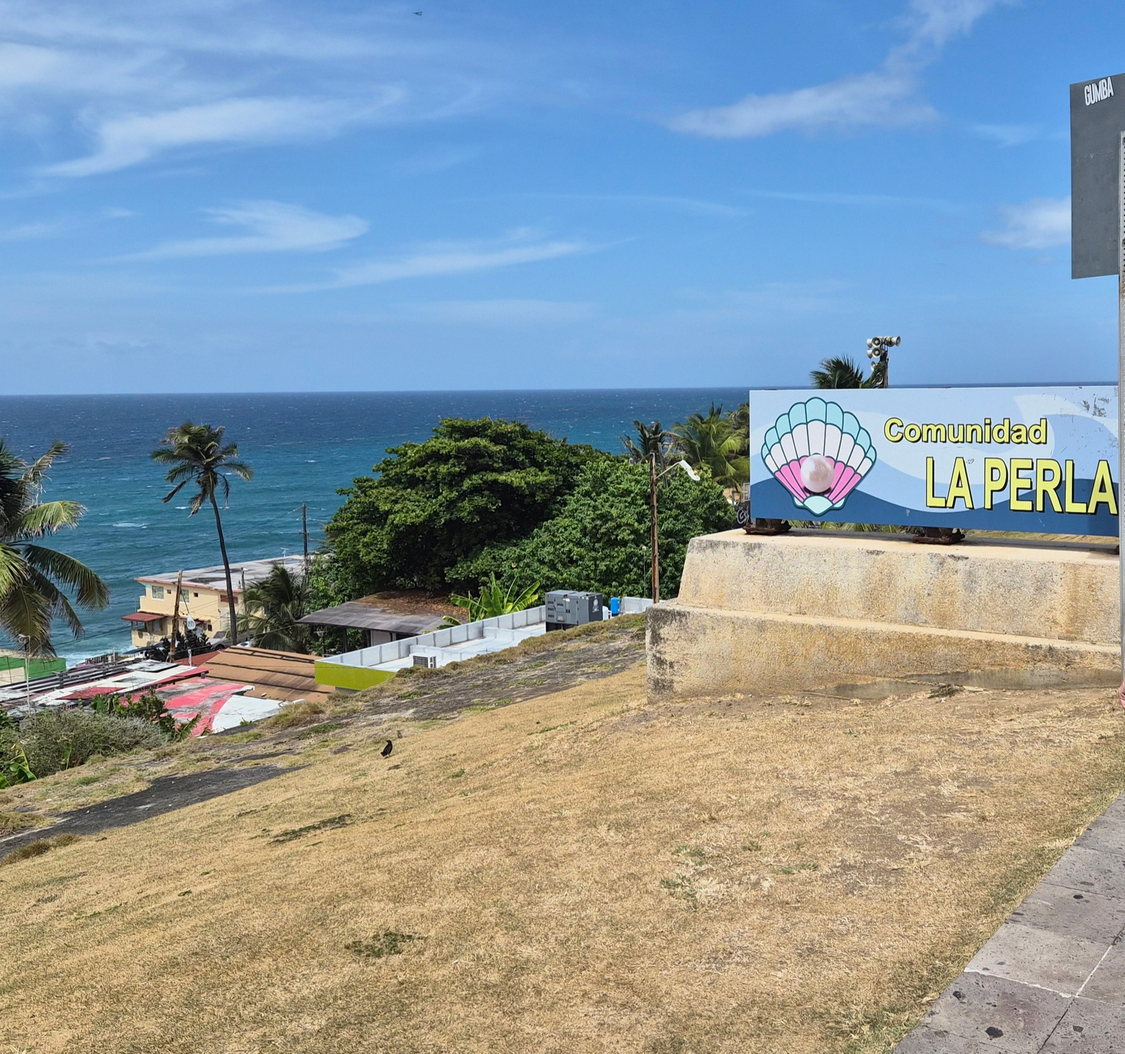
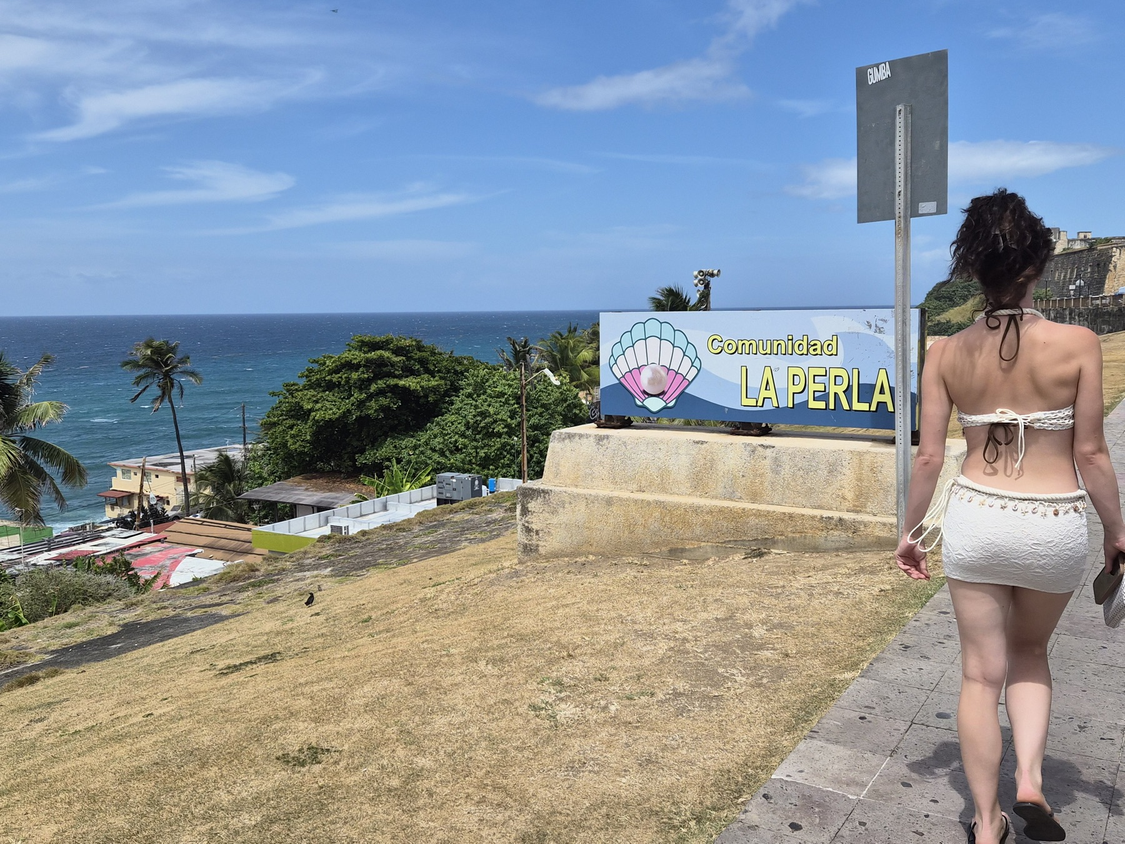
Más fotos en los carruseles de las tarjetas
- La del letrero de La Perla vuelve a ser la foto completa.
- Coamo de noche: se añade la entrada a los baños termales.
- Ponce pasa de cuatro a nueve fotos: la Fuente de los Leones,
  un edificio neoclásico del casco, el mural de las casitas,
  la sala de arte y el letrero de Ponce bajo la Cruceta.
- La Perla suma un callejón del Viejo San Juan.

Todas salen de Fotos Recorridos, a 1800px de ancho, con su texto
alternativo en el HTML.

diff --git a/index.html b/index.html
@@ -197,6 +197,13 @@ FEATURED CARD — RIVER WELLNESS RETREAT
 
     <img
       class="tour-card-slide"
+      src="assets/wellness-coamo-baths-night.jpg"
+      alt="Lantern-lit walkways at the Coamo thermal baths after dark"
+      loading="lazy"
+    >
+
+    <img
+      class="tour-card-slide"
       src="assets/wellness-coamo-night.jpg"
       alt="Evening atmosphere at the Coamo hot springs"
       loading="lazy"
@@ -292,6 +299,41 @@ FEATURED CARD — RIVER WELLNESS RETREAT
             class="tour-card-slide"
             src="assets/ponce-architecture.jpg"
             alt="Historic architecture in Ponce, Puerto Rico"
+            loading="lazy"
+          >
+
+          <img
+            class="tour-card-slide"
+            src="assets/ponce-plaza-fountain.jpg"
+            alt="Fuente de los Leones and the cathedral towers in Plaza Las Delicias"
+            loading="lazy"
+          >
+
+          <img
+            class="tour-card-slide"
+            src="assets/ponce-neoclassical-building.jpg"
+            alt="Neoclassical building in the historic centre of Ponce"
+            loading="lazy"
+          >
+
+          <img
+            class="tour-card-slide"
+            src="assets/ponce-casitas-mural.jpg"
+            alt="Mural of traditional wooden houses on a street in Ponce"
+            loading="lazy"
+          >
+
+          <img
+            class="tour-card-slide"
+            src="assets/ponce-art-museum.jpg"
+            alt="Taino inspired sculpture and portraits of Ponce musicians on display"
+            loading="lazy"
+          >
+
+          <img
+            class="tour-card-slide"
+            src="assets/ponce-cruceta-sign.jpg"
+            alt="Ponce spelled out in white stones below the Cruceta del Vigia"
             loading="lazy"
           >
 
@@ -404,6 +446,13 @@ FEATURED CARD — BEYOND LA PERLA
       class="tour-card-slide"
       src="assets/la-perla-overlook.jpg"
       alt="Panoramic overlook of the colorful homes of La Perla in Old San Juan"
+      loading="lazy"
+    >
+
+    <img
+      class="tour-card-slide"
+      src="assets/la-perla-old-san-juan-alley.jpg"
+      alt="Shaded alley with colorful facades in Old San Juan on the way to La Perla"
       loading="lazy"
     >
 
